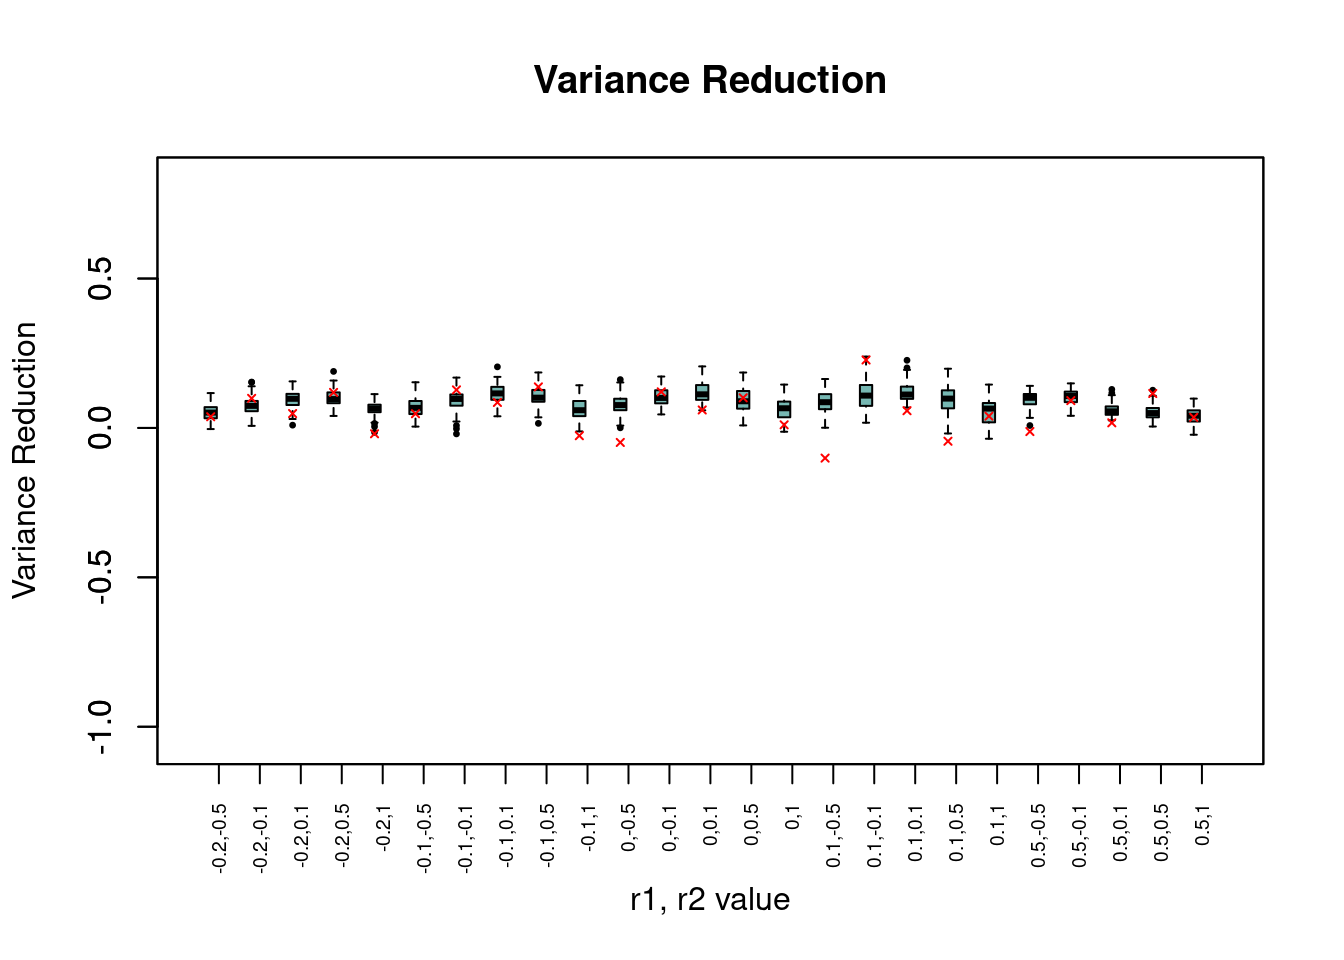
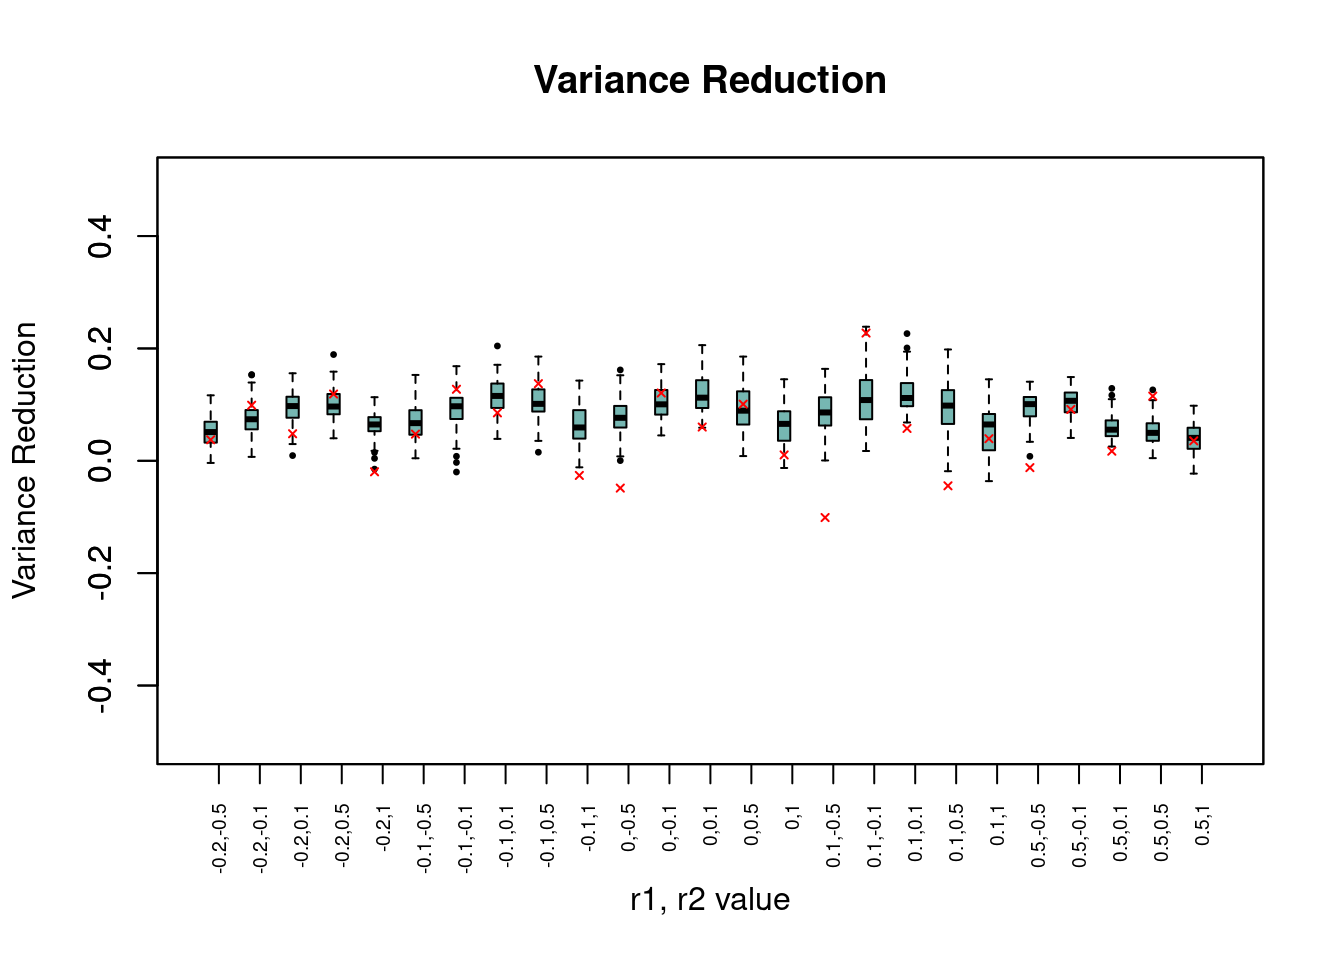
Build site.

diff --git a/docs/mr_result_sib_randomX.html b/docs/mr_result_sib_randomX.html
@@ -522,15 +522,15 @@ project makes it easier to run your code on other machines.</p>
 <div class="panel panel-default">
 <div class="panel-heading">
 <p class="panel-title">
-<a data-toggle="collapse" data-parent="#workflowr-checks" href="#strongRepositoryversionstrongahrefhttpsgithubcomyunqiyang0215simulationcalibratedmrtreea3468cd05650dc9aba134de2d3774ce1c6248049targetblanka3468cda">
+<a data-toggle="collapse" data-parent="#workflowr-checks" href="#strongRepositoryversionstrongahrefhttpsgithubcomyunqiyang0215simulationcalibratedmrtreea5c986eb4e8a992d0847f5f1dedde9888df609e7targetblanka5c986ea">
 <span class="glyphicon glyphicon-ok text-success"
 aria-hidden="true"></span> <strong>Repository version:</strong>
-<a href="https://github.com/yunqiyang0215/simulation-calibrated-mr/tree/a3468cd05650dc9aba134de2d3774ce1c6248049" target="_blank">a3468cd</a>
+<a href="https://github.com/yunqiyang0215/simulation-calibrated-mr/tree/a5c986eb4e8a992d0847f5f1dedde9888df609e7" target="_blank">a5c986e</a>
 </a>
 </p>
 </div>
 <div
[2 lines of base64/hex data omitted]
 class="panel-collapse collapse">
 <div class="panel-body">
 <p>
@@ -540,7 +540,7 @@ reproducibility.
 </p>
 <p>
 The results in this page were generated with repository version
-<a href="https://github.com/yunqiyang0215/simulation-calibrated-mr/tree/a3468cd05650dc9aba134de2d3774ce1c6248049" target="_blank">a3468cd</a>.
+<a href="https://github.com/yunqiyang0215/simulation-calibrated-mr/tree/a5c986eb4e8a992d0847f5f1dedde9888df609e7" target="_blank">a5c986e</a>.
 See the <em>Past versions</em> tab to see a history of the changes made
 to the R Markdown and HTML files.
 </p>
@@ -607,6 +607,40 @@ Message
 </tr>
 </thead>
 <tbody>
+<tr>
+<td>
+Rmd
+</td>
+<td>
+<a href="https://github.com/yunqiyang0215/simulation-calibrated-mr/blob/a5c986eb4e8a992d0847f5f1dedde9888df609e7/analysis/mr_result_sib_randomX.Rmd" target="_blank">a5c986e</a>
+</td>
+<td>
+yunqi yang
+</td>
+<td>
+2024-03-26
+</td>
+<td>
+wflow_publish("analysis/mr_result_sib_randomX.Rmd")
+</td>
+</tr>
+<tr>
+<td>
+html
+</td>
+<td>
+<a href="https://rawcdn.githack.com/yunqiyang0215/simulation-calibrated-mr/41077bc16d59c1ad6afe345b7419add1d0ab0920/docs/mr_result_sib_randomX.html" target="_blank">41077bc</a>
+</td>
+<td>
+yunqi yang
+</td>
+<td>
+2024-03-26
+</td>
+<td>
+Build site.
+</td>
+</tr>
 <tr>
 <td>
 Rmd
@@ -1235,6 +1269,17 @@ Date
 <tbody>
 <tr>
 <td>
+<a href="https://github.com/yunqiyang0215/simulation-calibrated-mr/blob/41077bc16d59c1ad6afe345b7419add1d0ab0920/docs/figure/mr_result_sib_randomX.Rmd/unnamed-chunk-11-1.png" target="_blank">41077bc</a>
+</td>
+<td>
+yunqi yang
+</td>
+<td>
+2024-03-26
+</td>
+</tr>
+<tr>
+<td>
 <a href="https://github.com/yunqiyang0215/simulation-calibrated-mr/blob/58207a67fb4469a7c823bdf8b40d52b7531e9ca8/docs/figure/mr_result_sib_randomX.Rmd/unnamed-chunk-11-1.png" target="_blank">58207a6</a>
 </td>
 <td>
@@ -1290,7 +1335,7 @@ emp_var_reduction &lt;- aggregate(emp_var_reduction ~ combination, data = aggreg
 # Plotting setup
 plot(1, type = &quot;n&quot;, xlab = &quot;r1, r2 value&quot;, ylab = &quot;Variance Reduction&quot;, 
      xlim = c(0.5, length(levels(aggregated_data$combination)) + 0.5), 
-     ylim = c(-1.05, 0.83), xaxt = &quot;n&quot;, main = &quot;Variance Reduction&quot;)
+     ylim = c(-0.5, 0.5), xaxt = &quot;n&quot;, main = &quot;Variance Reduction&quot;)
 
 # Add boxplot for variance reduction
 boxplot(var_reduction ~ combination, data = aggregated_data, 
@@ -1584,6 +1629,17 @@ Date
 <tbody>
 <tr>
 <td>
+<a href="https://github.com/yunqiyang0215/simulation-calibrated-mr/blob/41077bc16d59c1ad6afe345b7419add1d0ab0920/docs/figure/mr_result_sib_randomX.Rmd/unnamed-chunk-17-1.png" target="_blank">41077bc</a>
+</td>
+<td>
+yunqi yang
+</td>
+<td>
+2024-03-26
+</td>
+</tr>
+<tr>
+<td>
 <a href="https://github.com/yunqiyang0215/simulation-calibrated-mr/blob/58207a67fb4469a7c823bdf8b40d52b7531e9ca8/docs/figure/mr_result_sib_randomX.Rmd/unnamed-chunk-17-1.png" target="_blank">58207a6</a>
 </td>
 <td>
@@ -1651,7 +1707,7 @@ for(i in 1:length(r1)) {
 }</code></pre>
 <div id="boxplot-for-point-estimate-3" class="section level4">
 <h4>(1) Boxplot for point estimate</h4>
-<pre class="r"><code>plot(1, type = &quot;n&quot;, xlab = &quot;r1, r2 value&quot;, ylab = &quot;value&quot;, xlim = c(0.5, length(levels(aggregated_data$combination)) + 0.5), ylim = c(-2, 2), xaxt = &quot;n&quot;, main = &quot;Point estimate: mr.raps&quot;)
+<pre class="r"><code>plot(1, type = &quot;n&quot;, xlab = &quot;r1, r2 value&quot;, ylab = &quot;value&quot;, xlim = c(0.5, length(levels(aggregated_data$combination)) + 0.5), ylim = c(-2, 4), xaxt = &quot;n&quot;, main = &quot;Point estimate: mr.raps&quot;)
 axis(1, at = 1:length(levels(aggregated_data$combination)), labels = levels(aggregated_data$combination), las = 2, cex.axis = 0.6)
 
 boxplot(cali_point ~ combination, data = aggregated_data, at = 1:length(levels(aggregated_data$combination)) - 0.2, col = &quot;lightblue&quot;, add = TRUE, pch = 20, cex = 0.5, boxwex = 0.3, xaxt = &quot;n&quot;)
@@ -1681,6 +1737,17 @@ Date
 </tr>
 </thead>
 <tbody>
+<tr>
+<td>
+<a href="https://github.com/yunqiyang0215/simulation-calibrated-mr/blob/41077bc16d59c1ad6afe345b7419add1d0ab0920/docs/figure/mr_result_sib_randomX.Rmd/unnamed-chunk-19-1.png" target="_blank">41077bc</a>
+</td>
+<td>
+yunqi yang
+</td>
+<td>
+2024-03-26
+</td>
+</tr>
 <tr>
 <td>
 <a href="https://github.com/yunqiyang0215/simulation-calibrated-mr/blob/58207a67fb4469a7c823bdf8b40d52b7531e9ca8/docs/figure/mr_result_sib_randomX.Rmd/unnamed-chunk-19-1.png" target="_blank">58207a6</a>
@@ -1746,6 +1813,17 @@ Date
 </tr>
 </thead>
 <tbody>
+<tr>
+<td>
+<a href="https://github.com/yunqiyang0215/simulation-calibrated-mr/blob/41077bc16d59c1ad6afe345b7419add1d0ab0920/docs/figure/mr_result_sib_randomX.Rmd/unnamed-chunk-21-1.png" target="_blank">41077bc</a>
+</td>
+<td>
+yunqi yang
+</td>
+<td>
+2024-03-26
+</td>
+</tr>
 <tr>
 <td>
 <a href="https://github.com/yunqiyang0215/simulation-calibrated-mr/blob/58207a67fb4469a7c823bdf8b40d52b7531e9ca8/docs/figure/mr_result_sib_randomX.Rmd/unnamed-chunk-21-1.png" target="_blank">58207a6</a>
